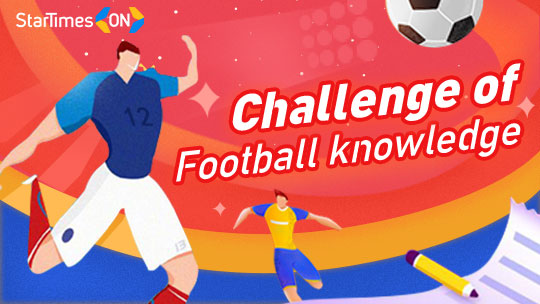
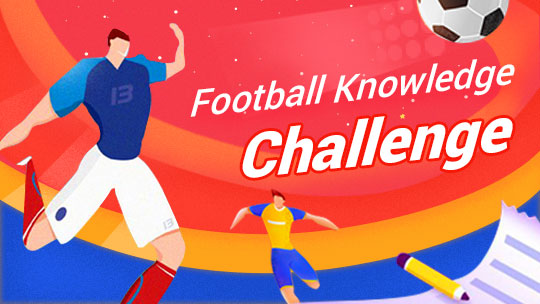
足球知识更换图片及title

diff --git a/pages/hybrid/questionNaire/america_bet.vue b/pages/hybrid/questionNaire/america_bet.vue
@@ -117,8 +117,8 @@ export default {
     },
     data() {
         const id = this.$route.query.quizId
-        const title = id == 21 ? 'Challenge Of Football Knowledge' : 'Challengers Crazy Guess'
-        const shareTitle = id == 21 ? 'Challenge Of Football Knowledge' : 'Hisense Challengers Uganda Crazy Guess'
+        const title = id == 21 ? 'Football Knowledge Challenge' : 'Challengers Crazy Guess'
+        const shareTitle = id == 21 ? 'Football Knowledge Challenge' : 'Hisense Challengers Uganda Crazy Guess'
         const shareContent =
             id == 21
                 ? 'Are you knowledgeable about football？Fight for 300 million coins&VIPs together.'
